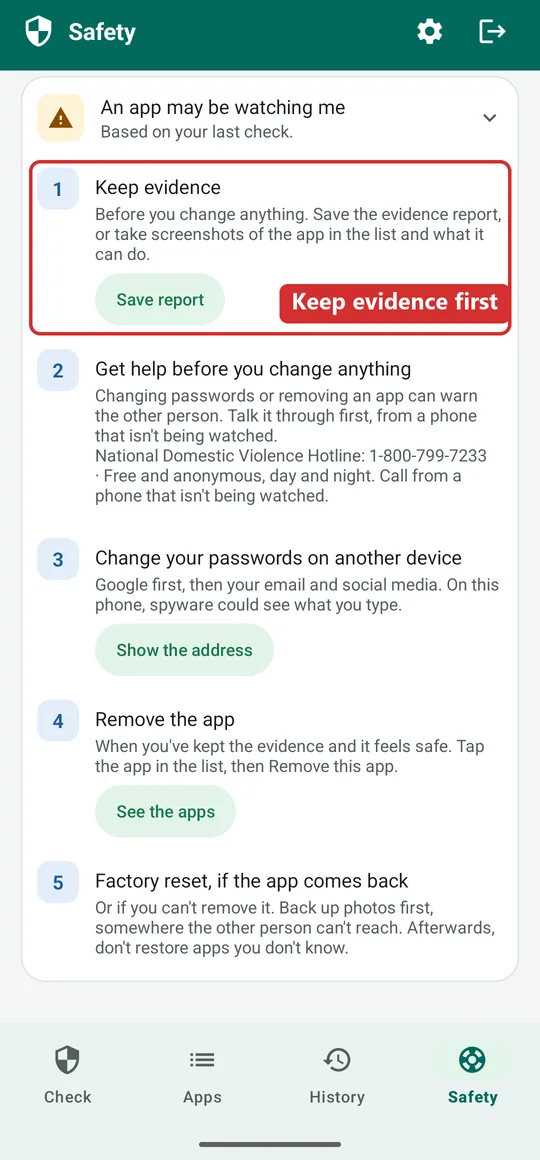
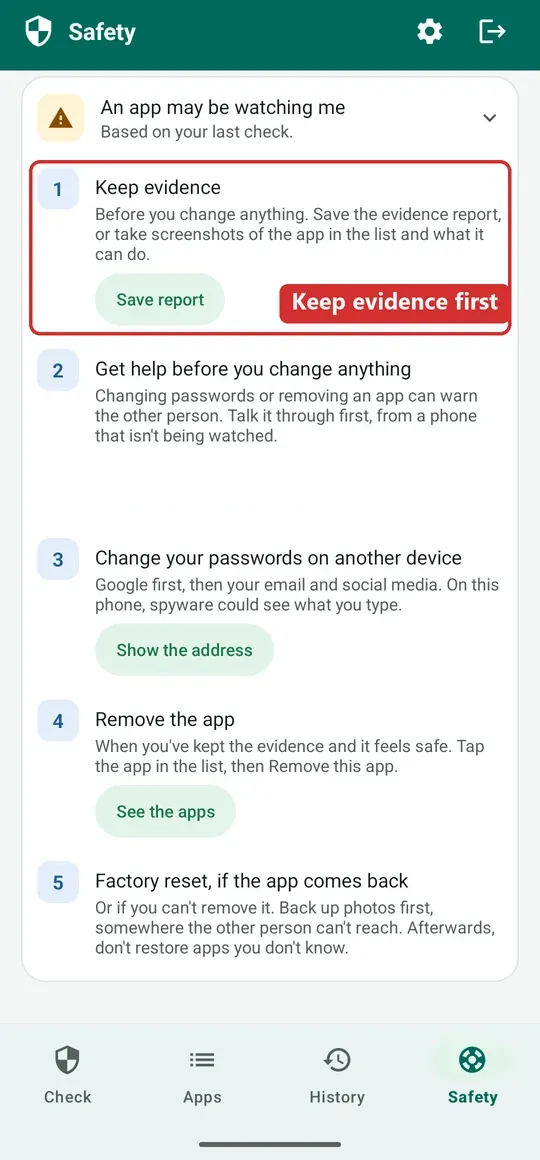
Website follows app 0.7.1: notification wording, no US helpline in the steps screenshot
The privacy policies describe notifications as the app shows them now
(the app's or disguise's name and "Tap to open"), help says a
notification about one app opens that app, the video page notes what
changed since the video, and the steps screenshot no longer shows a
country-specific helpline number.

Changed region(s): [[0.1778, 0.3724, 0.6815, 0.4345], [0.7111, 0.3724, 0.8889, 0.4345]]

diff --git a/help.html b/help.html
@@ -327,7 +327,7 @@
         <p>The <strong>History</strong> tab shows, day by day, when your phone was unlocked and which apps came or went.</p>
         <p>Use the two buttons at the top: <strong>Unlocks</strong> shows when your phone was unlocked, <strong>Apps</strong> shows which apps were installed, got access or were removed. Ordinary new apps are shown too, apart from apps that could watch you. Days that need a look get an orange dot. Tap a day to see the times.</p>
         <p>Look for an unlock at a time you didn't have your phone, just before an app was installed. History even says so, for example <em>Unlocked at 19:18, just before … was installed</em>.</p>
-        <p>Tap a notification from the app, and it opens History on the apps, so you see straight away what changed.</p>
+        <p>Tap a notification from the app, and it opens History on the apps, or the app itself if it is about one app, so you see straight away what changed.</p>
       </div>
       <figure class="shot">
         <img src="img/help/history.webp" width="540" height="1160" loading="lazy" decoding="async"

diff --git a/no/personvern.html b/no/personvern.html
@@ -78,7 +78,7 @@
     <p>Hvis du lager en bevisrapport, lager appen en PDF-fil på telefonen og åpner Androids delingsmeny. Du bestemmer hvor filen sendes. SpywareMonitor sender aldri filen noe sted selv, og beholder bare den siste rapporten.</p>
 
     <h2>4. Varsler</h2>
-    <p>Hvis du slår på overvåking i bakgrunnen, viser appen et varsel når en app installeres eller får tilgang som lar den overvåke deg. På låseskjermen står det bare «Åpne SpywareMonitor for detaljer» (eller navnet du valgte hvis appen er forkledd), slik at detaljene ikke vises for noen som holder telefonen din.</p>
+    <p>Hvis du slår på overvåking i bakgrunnen, viser appen et varsel når en app installeres eller får tilgang som lar den overvåke deg. Varselet sier aldri hva som ble funnet: det viser bare navnet på appen (eller navnet du valgte hvis appen er forkledd) og «Trykk for å åpne», også på låseskjermen, slik at detaljene ikke vises for noen som holder telefonen din.</p>
 
     <h2>5. Tillatelser</h2>
     <ul class="perm-list">

diff --git a/privacy.html b/privacy.html
@@ -78,7 +78,7 @@
     <p>If you create an evidence report, the app makes a PDF file on your phone and opens Android's share menu. You decide where the file goes. SpywareMonitor never sends the file anywhere by itself, and keeps only the latest report.</p>
 
     <h2>4. Notifications</h2>
-    <p>If you switch on background monitoring, the app shows a notification when an app is installed or gets access that lets it watch you. On the lock screen it only says "Open SpywareMonitor for details" (or the name you chose if the app is disguised), so the details are not shown to someone holding your phone.</p>
+    <p>If you switch on background monitoring, the app shows a notification when an app is installed or gets access that lets it watch you. The notification never says what was found: it only shows the app's name (or the name you chose if the app is disguised) and "Tap to open", also on the lock screen, so the details are not shown to someone holding your phone.</p>
 
     <h2>5. Permissions</h2>
     <ul class="perm-list">

diff --git a/video.html b/video.html
@@ -119,7 +119,7 @@
       <dt>1:07</dt><dd>Need to leave quickly? Tap the arrow at the top right.</dd>
       <dt>1:11</dt><dd>SpywareMonitor. No internet, no ads. On Google Play from mid-November.</dd>
     </dl>
-    <p class="small">The video was made before the launch; SpywareMonitor is on Google Play now, in 10 languages.</p>
+    <p class="small">The video was made before the launch; SpywareMonitor is on Google Play now, in 10 languages. Since then, the app checks several times a day instead of every hour, and <em>What to do now</em> is called <em>Safe steps</em>.</p>
 
     <div class="cta">
       <h2>Next steps</h2>
